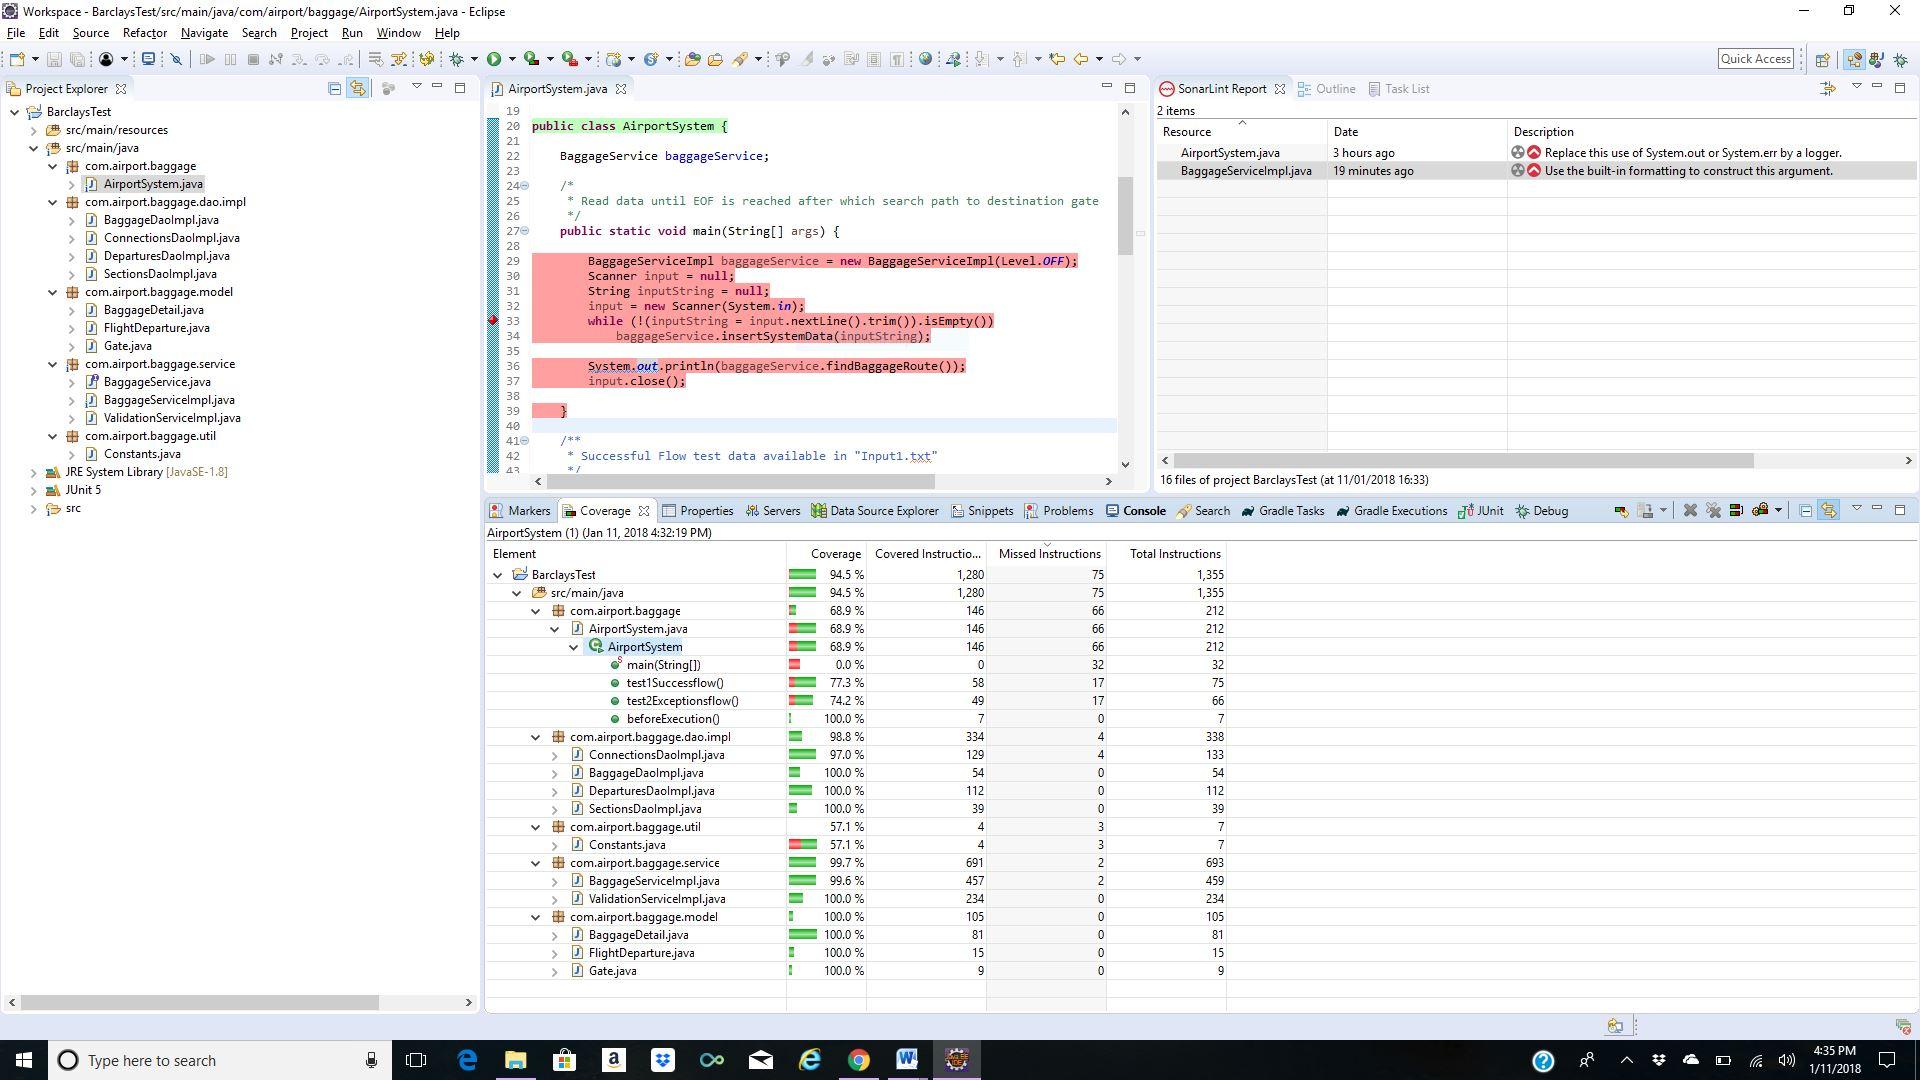
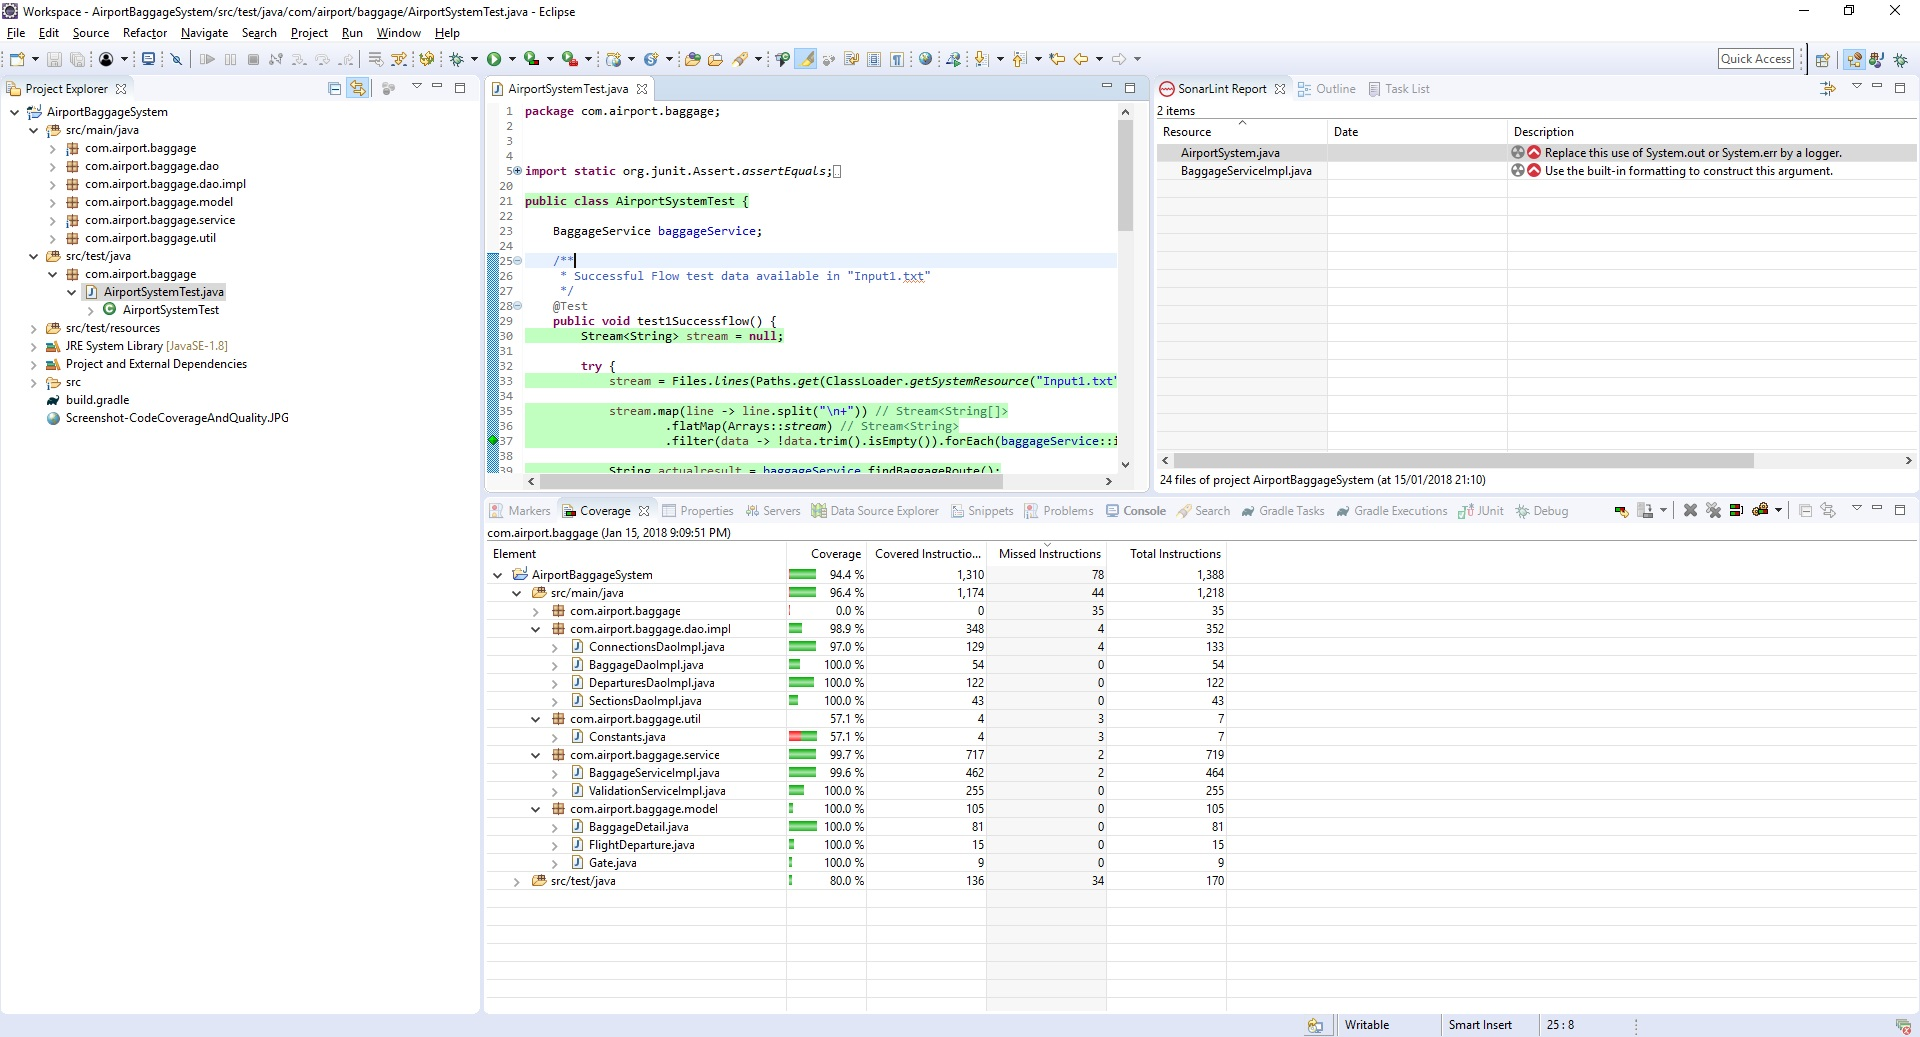
updated with build file

Changed region(s): [[0.0, 0.0, 1.0, 1.0], [0.9062, 0.0309, 1.0, 0.0926], [0.625, 0.864, 0.6562, 0.8949]]

diff --git a/src/main/java/com/airport/baggage/AirportSystem.java b/src/main/java/com/airport/baggage/AirportSystem.java
@@ -1,18 +1,7 @@
 package com.airport.baggage;
 
-import static org.junit.jupiter.api.Assertions.assertEquals;
-import static org.junit.jupiter.api.Assertions.assertNotNull;
-import static org.junit.jupiter.api.Assertions.assertTrue;
-
-import java.nio.file.Files;
-import java.nio.file.Paths;
-import java.util.Arrays;
 import java.util.Scanner;
 import java.util.logging.Level;
-import java.util.stream.Stream;
-
-import org.junit.jupiter.api.BeforeEach;
-import org.junit.jupiter.api.Test;
 
 import com.airport.baggage.service.BaggageService;
 import com.airport.baggage.service.BaggageServiceImpl;
@@ -36,70 +25,6 @@ public class AirportSystem {
 		System.out.println(baggageService.findBaggageRoute());
 		input.close();
 
-	}
-
-	/**
-	 * Successful Flow test data available in "Input1.txt"
-	 */
-	@Test
-	public void test1Successflow() {
-		Stream<String> stream = null;
-
-		try {
-			stream = Files.lines(Paths.get(ClassLoader.getSystemResource("Input1.txt").toURI()));
-
-			stream.map(line -> line.split("\n+")) // Stream<String[]>
-					.flatMap(Arrays::stream) // Stream<String>
-					.filter(data -> !data.trim().isEmpty()).forEach(baggageService::insertSystemData);
-
-			String actualresult = baggageService.findBaggageRoute();
-			String expectedResult = new String(
-					Files.readAllBytes(Paths.get(ClassLoader.getSystemResource("Output1.txt").toURI())));
-			expectedResult = expectedResult.replaceAll("\r", "");
-
-			assertNotNull(actualresult, "No result returned");
-			assertEquals(expectedResult, actualresult,
-					"Received Exceptions:" + expectedResult.equalsIgnoreCase(actualresult));
-		} catch (Exception e) {
-			assertTrue(false, e.getMessage());
-		} finally {
-			if(stream !=  null)
-				stream.close();
-		}
-
-	}
-
-	/**
-	 * Successful Flow test data available in "Input2.txt"
-	 */
-	@Test
-	public void test2Exceptionsflow() {
-		Stream<String> stream = null;
-
-		try {
-			stream = Files.lines(Paths.get(ClassLoader.getSystemResource("Input2.txt").toURI()));
-			stream.map(line -> line.split("\n+")) // Stream<String[]>
-					.flatMap(Arrays::stream) // Stream<String>
-					.filter(data -> !data.trim().isEmpty()).forEach(string -> baggageService.insertSystemData(string));
-
-			String actualresult = baggageService.findBaggageRoute();
-			String expectedResult = new String(
-					Files.readAllBytes(Paths.get(ClassLoader.getSystemResource("Output2.txt").toURI())));
-			expectedResult = expectedResult.replaceAll("\r", "");
-
-			assertNotNull(actualresult, "No result returned");
-			assertEquals(expectedResult, actualresult, "Received Exceptions");
-		} catch (Exception e) {
-			assertTrue(false, e.getMessage());
-		} finally {
-			if(stream !=  null)
-			stream.close();
-		}
-	}
-
-	@BeforeEach
-	public void beforeExecution() {
-		this.baggageService = new BaggageServiceImpl(Level.FINE);
 	}
 
 }

diff --git a/src/test/java/com/airport/baggage/AirportSystemTest.java b/src/test/java/com/airport/baggage/AirportSystemTest.java
@@ -1,0 +1,88 @@
+package com.airport.baggage;
+
+
+
+import static org.junit.Assert.assertEquals;
+import static org.junit.Assert.assertNotNull;
+import static org.junit.Assert.assertTrue;
+
+import java.nio.file.Files;
+import java.nio.file.Paths;
+import java.util.Arrays;
+import java.util.logging.Level;
+import java.util.stream.Stream;
+
+import org.junit.Before;
+import org.junit.Test;
+
+import com.airport.baggage.service.BaggageService;
+import com.airport.baggage.service.BaggageServiceImpl;
+
+public class AirportSystemTest {
+
+	BaggageService baggageService;
+
+	/**
+	 * Successful Flow test data available in "Input1.txt"
+	 */
+	@Test
+	public void test1Successflow() {
+		Stream<String> stream = null;
+
+		try {
+			stream = Files.lines(Paths.get(ClassLoader.getSystemResource("Input1.txt").toURI()));
+
+			stream.map(line -> line.split("\n+")) // Stream<String[]>
+					.flatMap(Arrays::stream) // Stream<String>
+					.filter(data -> !data.trim().isEmpty()).forEach(baggageService::insertSystemData);
+
+			String actualresult = baggageService.findBaggageRoute();
+			String expectedResult = new String(
+					Files.readAllBytes(Paths.get(ClassLoader.getSystemResource("Output1.txt").toURI())));
+			expectedResult = expectedResult.replaceAll("\r", "");
+
+			assertNotNull(actualresult, "No result returned");
+			assertEquals(expectedResult, actualresult);
+		} catch (Exception e) {
+			assertTrue(e.getMessage(),false);
+		} finally {
+			if(stream !=  null)
+				stream.close();
+		}
+
+	}
+
+	/**
+	 * Successful Flow test data available in "Input2.txt"
+	 */
+	@Test
+	public void test2Exceptionsflow() {
+		Stream<String> stream = null;
+
+		try {
+			stream = Files.lines(Paths.get(ClassLoader.getSystemResource("Input2.txt").toURI()));
+			stream.map(line -> line.split("\n+")) // Stream<String[]>
+					.flatMap(Arrays::stream) // Stream<String>
+					.filter(data -> !data.trim().isEmpty()).forEach(string -> baggageService.insertSystemData(string));
+
+			String actualresult = baggageService.findBaggageRoute();
+			String expectedResult = new String(
+					Files.readAllBytes(Paths.get(ClassLoader.getSystemResource("Output2.txt").toURI())));
+			expectedResult = expectedResult.replaceAll("\r", "");
+
+			assertNotNull(actualresult, "No result returned");
+			assertEquals(expectedResult, actualresult);
+		} catch (Exception e) {
+			assertTrue( e.getMessage(),false);
+		} finally {
+			if(stream !=  null)
+			stream.close();
+		}
+	}
+
+	@Before
+	public void beforeExecution() {
+		this.baggageService = new BaggageServiceImpl(Level.FINE);
+	}
+
+}
